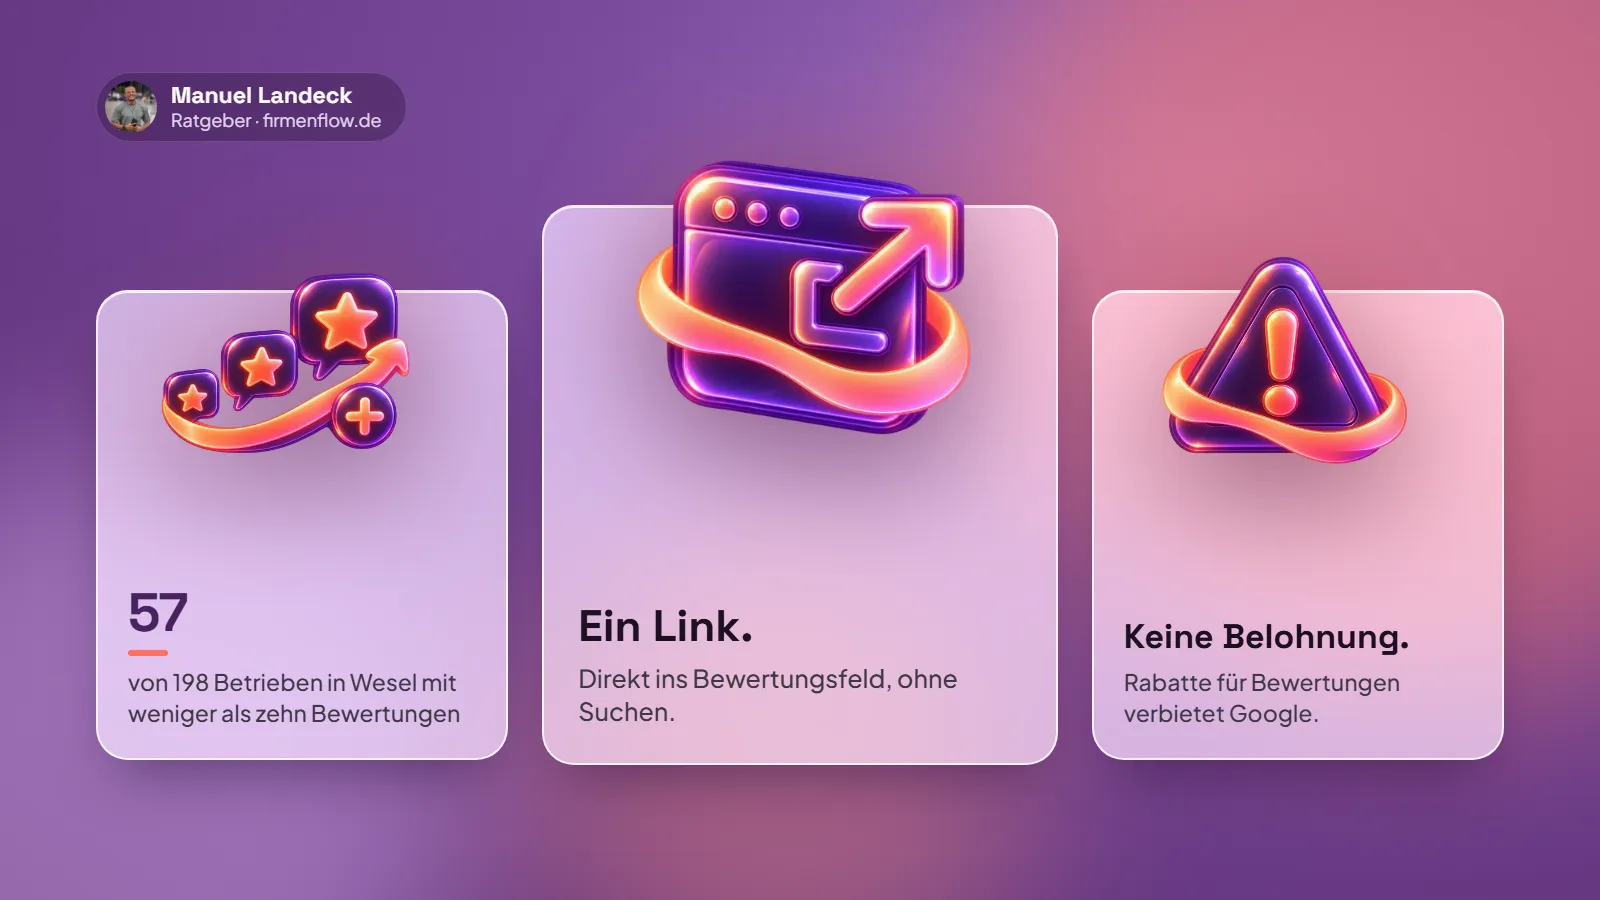
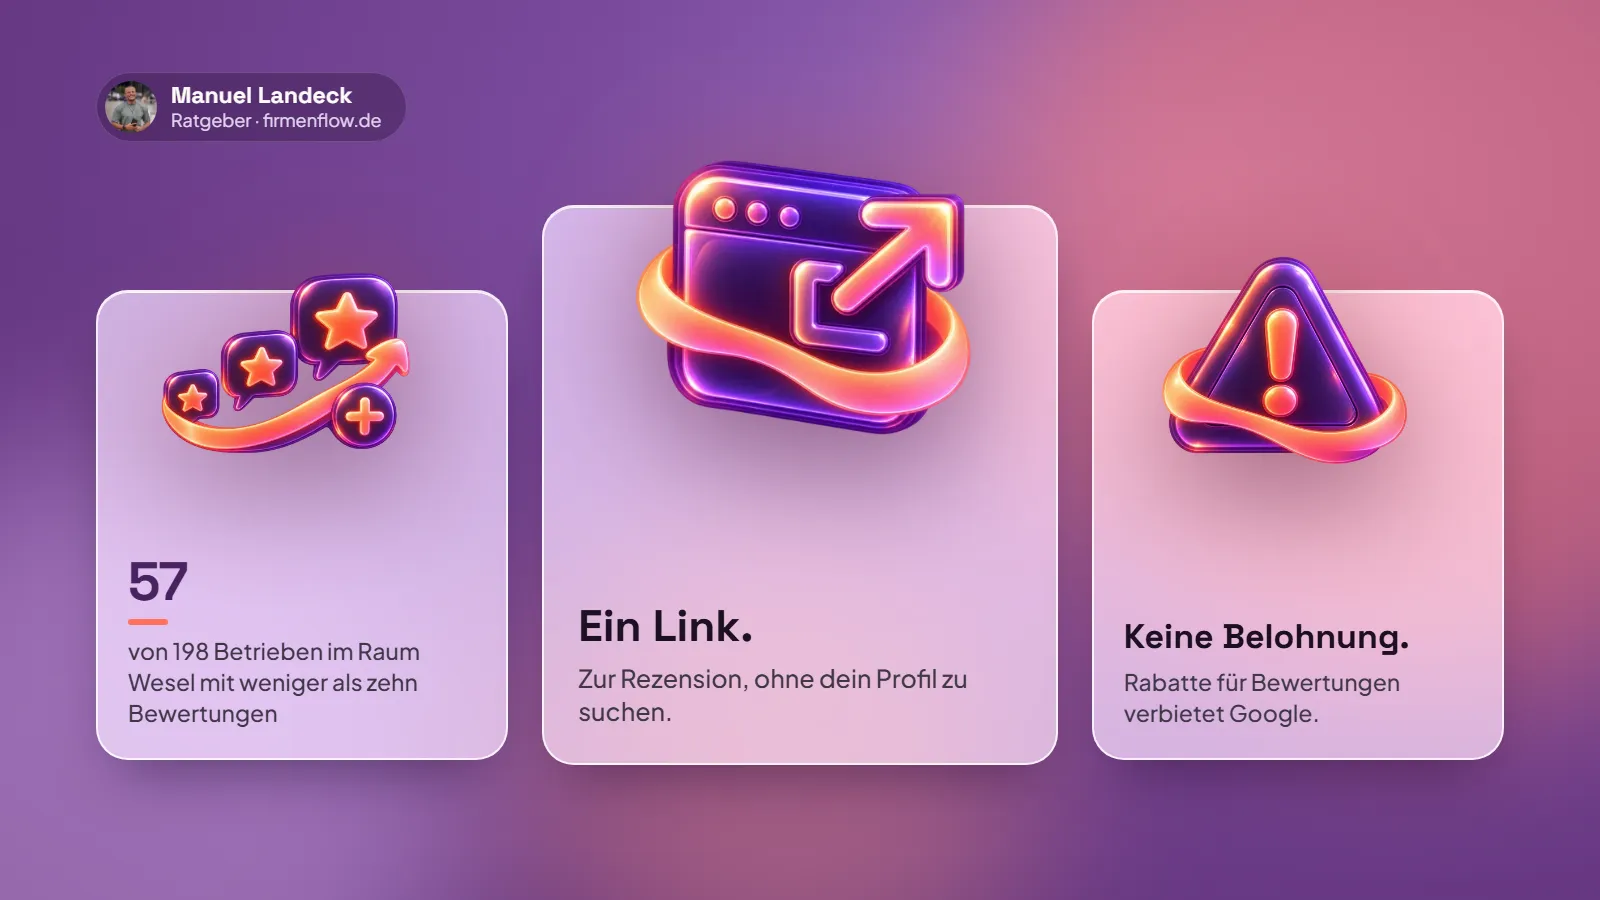
Ratgeber Bewertungen: Befunde der unabhängigen Prüfung eingearbeitet
Preise netto und Aufräumen getrennt von der Betreuung, Aussagen enger an
die Google-Quellen, Stichprobe und Median erklärt, BGH-Fall eingeordnet.

Changed region(s): [[0.0625, 0.6222, 0.2812, 0.8089], [0.3438, 0.7467, 0.5938, 0.8089]]

diff --git a/content/ratgeber/google-bewertungen-bekommen.md b/content/ratgeber/google-bewertungen-bekommen.md
@@ -6,7 +6,7 @@ date: "2026-09-24"
 category: "Lokale Sichtbarkeit"
 tags: [Google-Bewertungen, Google-Profil, Lokale Sichtbarkeit, Handwerk]
 image: "/images/ratgeber/google-bewertungen-bekommen-titel.webp"
-imageAlt: "Titelbild mit drei Glaskarten und 3D-Symbolen: 57 von 198 Betrieben in Wesel mit weniger als zehn Bewertungen, ein Link direkt ins Bewertungsfeld, keine Belohnung für Bewertungen"
+imageAlt: "Titelbild mit drei Glaskarten und 3D-Symbolen: 57 von 198 Betrieben im Raum Wesel mit weniger als zehn Bewertungen, ein Link direkt ins Bewertungsfeld, keine Belohnung für Bewertungen"
 featured: "false"
 ---
 
@@ -16,18 +16,18 @@ Zwei Straßen weiter hat ein anderer Betrieb achtzig Bewertungen, du hast neun. 
 
 ## Kurz gesagt
 
-* Im Handwerk kommen Bewertungen selten von allein. Ein Elektriker im Raum Wesel hat im Median 6, ein Fliesenleger 4.
-* Mit deinem eigenen Bewertungslink landet der Kunde mit einem Tipp direkt im Bewertungsfeld. Google stellt ihn dir im Profil bereit.
+* Im Handwerk sind Google-Bewertungen rar. Ein Elektriker im Raum Wesel hat im Median 6, ein Fliesenleger 4.
+* Über deinen eigenen Bewertungslink kann der Kunde eine Rezension schreiben, ohne dein Profil erst suchen zu müssen. Google stellt ihn dir im Profil bereit.
 * Fragen ist erlaubt. Belohnungen, gezieltes Bitten um gute Bewertungen und Druck vor Ort verbietet Google ausdrücklich.
 * Im Selbsttest am Ende siehst du, ob du beim Fragen etwas verschenkst.
 
 ## Wie viele Bewertungen in deiner Branche üblich sind
 
-Google schreibt in seiner Hilfe selbst, woran es festmacht, wer in der Karte weit oben steht: Relevanz, Entfernung und Bekanntheit. Zur Bekanntheit zählt Google auch die Anzahl der Rezensionen, die ein Betrieb erhalten hat. Wörtlich heißt es dort: [Je mehr Rezensionen und positive Bewertungen Ihr Unternehmen erhält, desto besser kann das Ranking in lokalen Suchergebnissen ausfallen](https://support.google.com/business/answer/7091?hl=de). Google schreibt „kann“ und verspricht damit nichts. Die Bewertungen sind trotzdem der Teil der Bekanntheit, den du am ehesten selbst in der Hand hast.
+Google schreibt in seiner Hilfe selbst, woran es hauptsächlich festmacht, wer in den lokalen Suchergebnissen oben steht: Relevanz, Entfernung und Bekanntheit. Zur Bekanntheit zählt Google auch die Anzahl der Rezensionen, die ein Betrieb erhalten hat. Wörtlich heißt es dort: [Je mehr Rezensionen und positive Bewertungen Ihr Unternehmen erhält, desto besser kann das Ranking in lokalen Suchergebnissen ausfallen](https://support.google.com/business/answer/7091?hl=de). Google schreibt „kann“ und verspricht damit nichts. Die Bewertungen sind trotzdem der Teil der Bekanntheit, den du am ehesten selbst in der Hand hast.
 
-Wie viele Bewertungen normal sind, hängt stark von der Branche ab. Für meinen Artikel [Warum dein Betrieb bei Google Maps nicht gefunden wird](https://www.firmenflow.de/ratgeber/google-maps-nicht-gefunden) habe ich im September 2026 die Google-Profile von 198 Betrieben im Raum Wesel ausgewertet:
+Wie viele Bewertungen normal sind, hängt stark von der Branche ab. Für meinen Artikel [Warum dein Betrieb bei Google Maps nicht gefunden wird](https://www.firmenflow.de/ratgeber/google-maps-nicht-gefunden) habe ich im September 2026 die Google-Profile von 198 Betrieben aus zwölf Branchen im Raum Wesel ausgewertet. Hier sieben davon. Median heißt: Die Hälfte der Betriebe hat weniger Bewertungen, die andere Hälfte mehr.
 
-::chart: Eigene Erhebung, 198 Betriebe im Raum Wesel, abgefragt am 22. September 2026. Werte: Bewertungen im Median.::
+::chart: Eigene Erhebung, 198 Betriebe im Raum Wesel, abgefragt am 22. September 2026. Werte: Bewertungen im Median, Auswahl von sieben der zwölf Branchen.::
 
 | Branche | Bewertungen im Median |
 | --- | --- |
@@ -39,7 +39,9 @@ Wie viele Bewertungen normal sind, hängt stark von der Branche ab. Für meinen 
 | KFZ-Werkstatt | 50 |
 | Bäckerei | 132 |
 
-Im Handwerk sind die Zahlen also überschaubar. 57 der 198 Betriebe hatten weniger als zehn Bewertungen, 12 gar keine. Für dich ist das eine gute Nachricht: Als Elektriker oder Fliesenleger bist du mit fünfzehn ehrlichen Bewertungen in Wesel schon weiter als die meisten. Dafür brauchst du keine Kampagne, nur die Gewohnheit, über Monate jeden Kunden zu fragen.
+Im Handwerk sind die Zahlen also überschaubar. Über alle zwölf Branchen hinweg, Bäckereien und Friseure eingeschlossen, hatten 57 der 198 Betriebe weniger als zehn Bewertungen, 12 gar keine. Für dich ist das eine gute Nachricht: Als Elektriker oder Fliesenleger liegst du mit fünfzehn ehrlichen Bewertungen im Raum Wesel über dem Median. Eine Kampagne brauchst du dafür nicht. Es kommt darauf an, dass du über Monate jeden Kunden fragst.
+
+Zwei Einschränkungen gehören dazu. Einzelne Branchenwerte beruhen auf wenigen Betrieben, bei den Fliesenlegern auf neun. Und erfasst sind nur die Betriebe, die Google für die jeweiligen Suchbegriffe ausgibt.
 
 ## Warum zufriedene Kunden nichts schreiben
 
@@ -49,7 +51,7 @@ Das sind viele Schritte für jemanden, der dir eigentlich nur einen Gefallen tun
 
 ## Dein eigener Bewertungslink
 
-Wenn du dein Google-Profil selbst verwaltest, stellt Google dir einen Link bereit, der direkt zum Bewertungsfeld führt. Der Kunde tippt darauf, vergibt Sterne und schreibt ein paar Sätze, ohne vorher dein Profil suchen zu müssen.
+Wenn du dein Google-Profil selbst verwaltest, stellt Google dir einen Link bereit, über den Kunden eine Rezension für dein Profil verfassen können. Der Kunde öffnet den Link, vergibt Sterne und schreibt ein paar Sätze, ohne vorher dein Profil suchen zu müssen.
 
 So kommst du an deinen Link, laut der [Google-Hilfe zum Bewertungslink](https://support.google.com/business/answer/16816815?hl=de):
 
@@ -72,7 +74,7 @@ Ein Satz reicht, zum Beispiel so:
 
 > „Das freut mich wirklich. Darf ich Ihnen heute Abend einen Link schicken? Wenn Sie zwei Minuten Zeit haben, hilft mir eine ehrliche Bewertung bei Google sehr.“
 
-Dass der Link erst am Abend kommt, hat einen Grund. Google verbietet in seinen Richtlinien ausdrücklich, Kunden aufzufordern oder unter Druck zu setzen, die Bewertung zu schreiben, während sie noch vor Ort sind. Neben dem Kunden stehen und warten, bis er fertig getippt hat, fällt aus meiner Sicht genau darunter. Mit dem Link am Abend hat er Ruhe, und du bist aus dem Spiel.
+Dass der Link erst am Abend kommt, ist mein Vorschlag und keine Vorgabe von Google. Google verbietet in seinen Richtlinien, Kunden aufzufordern oder unter Druck zu setzen, die Bewertung zu schreiben, während sie noch vor Ort sind. Ob das Wohnzimmer des Kunden bei der Abnahme genauso zählt wie der eigene Betrieb, sagt Google nicht. Mit dem Link am Abend bist du auf der sicheren Seite, und der Kunde hat Ruhe.
 
 Die Nachricht dazu kann so aussehen:
 
@@ -92,22 +94,22 @@ Um Bewertungen bitten darfst du. Google erlaubt ausdrücklich, Kunden zu Beiträ
 | --- | --- |
 | Belohnungen | Kein Rabatt, keine Gratis-Wartung, kein Gutschein als Dankeschön für eine Bewertung |
 | Gezielt um Lob bitten | Kunden gezielt um positive Bewertungen bitten oder negative verhindern, etwa indem du nur fragst, wo alles glatt lief |
-| Druck vor Ort | Nicht danebenstehen und warten, bis der Kunde die Bewertung abgeschickt hat |
+| Druck vor Ort | Kunden nicht vor Ort auffordern oder drängen, die Bewertung gleich zu schreiben, zum Beispiel indem du danebenstehst |
 | Vorgaben zum Inhalt | Keinen Text vorschreiben, keine bestimmten Namen verlangen, deinen Leuten keine Stückzahlen vorgeben |
 
 Bei der Belohnung ist die Versuchung am größten, weil sie so harmlos wirkt. Google nennt Anreize wie kostenlose oder vergünstigte Produkte oder Dienstleistungen als Gegenleistung für Rezensionen eine gefälschte Interaktion, die streng verboten ist. Solche Bewertungen werden laut Google aus Google Maps entfernt. Das gilt genauso, wenn du jemandem etwas anbietest, damit er eine negative Bewertung ändert oder löscht.
 
-Genauso heikel ist die Familienrunde. Bewertungen von Verwandten oder früheren Mitarbeitern beruhen laut Google auf einem Interessenkonflikt und sind ebenfalls nicht erlaubt.
+Genauso heikel ist die Familienrunde. Google nennt familiäre Beziehungen und frühere Beschäftigung als Beispiele für einen Interessenkonflikt, und Beiträge, die auf einem Interessenkonflikt beruhen, sind laut Google nicht zulässig.
 
-## Und per E-Mail?
+## Und per E-Mail oder WhatsApp?
 
-Hier kommt zu Google noch das deutsche Recht dazu. Der Bundesgerichtshof hat 2018 entschieden, dass eine Kundenzufriedenheitsbefragung in einer E-Mail als Werbung zählt, auch wenn mit derselben E-Mail die Rechnung verschickt wird ([BGH, Urteil vom 10. Juli 2018, VI ZR 225/17](https://www.bundesgerichtshof.de/SharedDocs/Entscheidungen/DE/Zivilsenate/VI_ZS/2017/VI_ZR_225-17.pdf?__blob=publicationFile&v=1)). Und Werbung per E-Mail braucht grundsätzlich eine Einwilligung.
+Hier kommt zu Google noch das deutsche Recht dazu. Der Bundesgerichtshof hat 2018 entschieden, dass eine Kundenzufriedenheitsbefragung in einer E-Mail als Werbung zählt, auch wenn mit derselben E-Mail die Rechnung verschickt wird ([BGH, Urteil vom 10. Juli 2018, VI ZR 225/17](https://www.bundesgerichtshof.de/SharedDocs/Entscheidungen/DE/Zivilsenate/VI_ZS/2017/VI_ZR_225-17.pdf?__blob=publicationFile&v=1)). Im Fall ging es um einen Onlinehändler, der mit der Rechnung um eine „5-Sterne Beurteilung“ gebeten hatte. Werbung per E-Mail braucht grundsätzlich eine Einwilligung. Für Bestandskunden gibt es Ausnahmen, aber nur unter Bedingungen, zu denen unter anderem gehört, dass der Kunde der Werbung widersprechen kann.
 
-Ich bin kein Anwalt und kann dir dazu keine Rechtsberatung geben. Für den Alltag heißt das aus meiner Sicht nur: Frag im persönlichen Gespräch, ob du den Link schicken darfst, und schick ihn nur, wenn der Kunde das möchte. Eine Bitte um Bewertung, die ungefragt unter jeder Rechnungsmail hängt, lässt du besser weg. Wer seine Abläufe dazu rechtlich absichern will, fragt am besten bei seiner Handwerkskammer oder einem Anwalt nach.
+Ob das für WhatsApp oder SMS genauso gilt, kann ich dir nicht verbindlich sagen. Ich bin kein Anwalt und gebe dir dazu keine Rechtsberatung. Für den Alltag heißt das aus meiner Sicht nur: Frag im persönlichen Gespräch, ob du den Link schicken darfst, und schick ihn nur, wenn der Kunde das möchte. Eine Bitte um Bewertung, die ungefragt unter jeder Rechnungsmail hängt, lässt du besser weg. Wer seine Abläufe dazu rechtlich absichern will, fragt am besten bei seiner Handwerkskammer oder einem Anwalt nach.
 
 ## Antworten gehört dazu
 
-Wer Bewertungen bekommt, sollte sie auch beantworten. Google empfiehlt das ausdrücklich und rät zu kurzen, freundlichen Antworten, die mit Namen oder Initialen unterschrieben sind. Deine Antwort steht öffentlich unter der Bewertung, und der Verfasser bekommt eine Nachricht, sobald du geantwortet hast.
+Google empfiehlt als Best Practice, auf Rezensionen zu antworten, kurz und freundlich. Jedem öffentlich danken musst du laut Google nicht, antworte, wenn du etwas zu sagen hast. Bei kritischen Bewertungen rät Google außerdem, die Antwort mit Namen oder Initialen zu unterschreiben. Google prüft jede Antwort, in der Regel innerhalb von zehn Minuten. Danach steht sie öffentlich unter der Bewertung, und der Verfasser bekommt eine Nachricht.
 
 Wer dein Profil später liest, sieht an deinen Antworten, dass du dich kümmerst, gerade bei einer kritischen Bewertung. Google schreibt dazu selbst, dass eine Mischung aus positivem und negativem Feedback oft vertrauenswürdiger wirkt.
 
@@ -129,7 +131,7 @@ Jedes Nein ist eine Stelle, an der zufriedene Kunden gerade nichts schreiben.
 
 Das Fragen kann dir keiner abnehmen, das machst du oder dein Team beim Kunden. Den Rest kann ich übernehmen.
 
-Mit [Lokalpräsenz 360°](https://www.firmenflow.de/lokalpraesenz-360) räume ich dein Google-Profil auf, beantworte jede neue Bewertung in deinem Ton und schicke dir einmal im Monat eine Zusammenfassung, was Kunden schreiben. Die Betreuung kostet 99 Euro im Monat und ist monatlich kündbar. Wenn mehrere Leute bei dir Kundenkontakt haben, zeige ich deinem Team in einer kurzen Schulung für 150 Euro, wann und wie es fragt, ohne dass es sich nach Betteln anfühlt.
+Mit [Lokalpräsenz 360°](https://www.firmenflow.de/lokalpraesenz-360) räume ich dein Google-Profil einmalig auf, das kostet 190 Euro. In der Betreuung für 99 Euro im Monat beantworte ich danach jede neue Bewertung in deinem Ton und schicke dir einmal im Monat einen kurzen Bericht mit einem konkreten Vorschlag. Monatlich kündbar. Wenn mehrere Leute bei dir Kundenkontakt haben, zeige ich deinem Team in einer kurzen Schulung für 150 Euro, wann und wie es fragt, ohne dass es sich nach Betteln anfühlt. Alle Preise sind netto.
 
 Wenn du erst einmal wissen willst, wie dein Profil gerade dasteht, schreib mir deinen Betriebsnamen und deinen Ort. Dann schaue ich es mir an.
 
@@ -140,7 +142,7 @@ Wenn du erst einmal wissen willst, wie dein Profil gerade dasteht, schreib mir d
 1. **Google Unternehmensprofil-Hilfe:** [Ranking in lokalen Suchergebnissen auf Google verbessern](https://support.google.com/business/answer/7091?hl=de) (Relevanz, Entfernung und Bekanntheit, Rolle der Rezensionen)
 2. **Google Unternehmensprofil-Hilfe:** [Link oder QR-Code zum Anfordern von Rezensionen erstellen](https://support.google.com/business/answer/16816815?hl=de) (Weg zum Bewertungslink, Einsatzorte, QR-Code nur am Computer)
 3. **Google Unternehmensprofil-Hilfe:** [Tipps für mehr Rezensionen](https://support.google.com/business/answer/3474122?hl=de) (Verbot von Anreizen, Google-Konto als Voraussetzung, Tipps für Antworten)
-4. **Google Unternehmensprofil-Hilfe:** [Kundenrezensionen verwalten](https://support.google.com/business/answer/3474050?hl=de) (Antworten, Benachrichtigung des Verfassers)
-5. **Richtlinien für Nutzerbeiträge auf Google Maps:** [Verbotene und eingeschränkt zulässige Inhalte](https://support.google.com/contributionpolicy/answer/7400114?hl=de) (Anreize, gezieltes Fragen nach positiven Rezensionen, Druck vor Ort, Interessenkonflikte)
-6. **Bundesgerichtshof:** [Urteil vom 10. Juli 2018, VI ZR 225/17](https://www.bundesgerichtshof.de/SharedDocs/Entscheidungen/DE/Zivilsenate/VI_ZS/2017/VI_ZR_225-17.pdf?__blob=publicationFile&v=1) (Kundenzufriedenheitsbefragung per E-Mail als Werbung)
+4. **Google Unternehmensprofil-Hilfe:** [Kundenrezensionen verwalten](https://support.google.com/business/answer/3474050?hl=de) (Antworten, Prüfung durch Google, Benachrichtigung des Verfassers)
+5. **Richtlinien für Nutzerbeiträge auf Google Maps:** [Verbotene und eingeschränkt zulässige Inhalte](https://support.google.com/contributionpolicy/answer/7400114?hl=de) (Anreize, gezieltes Bitten um positive Rezensionen, Druck vor Ort, Interessenkonflikte)
+6. **Bundesgerichtshof:** [Urteil vom 10. Juli 2018, VI ZR 225/17](https://www.bundesgerichtshof.de/SharedDocs/Entscheidungen/DE/Zivilsenate/VI_ZS/2017/VI_ZR_225-17.pdf?__blob=publicationFile&v=1) (Kundenzufriedenheitsbefragung per E-Mail als Werbung, Ausnahme für Bestandskunden)
 7. **Eigene Erhebung:** 198 Betriebe aus zwölf Branchen im Raum Wesel, abgefragt am 22. September 2026 über die Google Places API, veröffentlicht in [Warum dein Betrieb bei Google Maps nicht gefunden wird](https://www.firmenflow.de/ratgeber/google-maps-nicht-gefunden).
